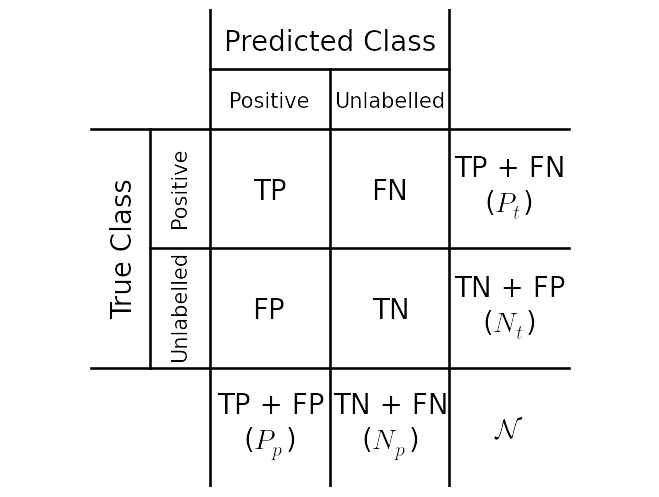
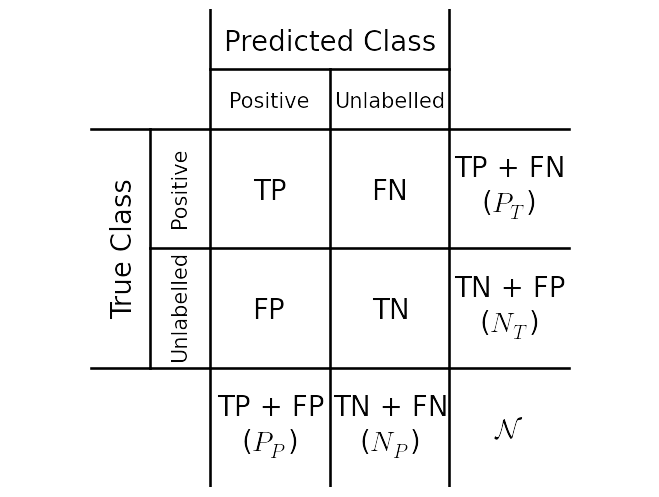
Source code cleaning

diff --git a/src/examples/ConfusionMatrix.py b/src/examples/ConfusionMatrix.py
@@ -1,6 +1,5 @@
 import matplotlib.gridspec as gridspec
 import matplotlib.pyplot as plt
-import matplotlib.patches as patches
 import numpy as np
 import sys
 
@@ -59,8 +58,8 @@ def main(figureSaveLocation):
     addtext.graphGeneration([3, 5], [5, 5], ['TP', 'FN'], currentFigure=currentFigure, sizes=[20, 20])
     addtext.graphGeneration([3, 5], [3, 3], ['FP', 'TN'], currentFigure=currentFigure, sizes=[20, 20])
 
-    addtext.graphGeneration([3, 5], [axisMinValue + 1, axisMinValue + 1], ['TP + FP\n(' + r'$P_p$' + ')', 'TN + FN\n(' + r'$N_p$' + ')'], currentFigure=currentFigure, sizes=[20, 20])
-    addtext.graphGeneration([axisMaxValue - 1, axisMaxValue - 1], [5, 3], ['TP + FN\n(' + r'$P_t$' + ')', 'TN + FP\n(' + r'$N_t$' + ')'], currentFigure=currentFigure, sizes=[20, 20])
+    addtext.graphGeneration([3, 5], [axisMinValue + 1, axisMinValue + 1], ['TP + FP\n(' + r'$P_P$' + ')', 'TN + FN\n(' + r'$N_P$' + ')'], currentFigure=currentFigure, sizes=[20, 20])
+    addtext.graphGeneration([axisMaxValue - 1, axisMaxValue - 1], [5, 3], ['TP + FN\n(' + r'$P_T$' + ')', 'TN + FP\n(' + r'$N_T$' + ')'], currentFigure=currentFigure, sizes=[20, 20])
     addtext.graphGeneration([axisMaxValue - 1], [axisMinValue + 1], [r'$\mathcal{N}$'], currentFigure=currentFigure, sizes=[20])
 
     # Finalise the figure.

diff --git a/src/examples/DecisionTreePartitions.py b/src/examples/DecisionTreePartitions.py
@@ -28,7 +28,7 @@ def main(figureSaveLocation):
     splitValues = splitValues + ([None] * (len(splitValues) + 1))  # Pad out the splitValues with empty values for the leaves.
     splitVariables = splitVariables + ([None] * (len(splitValues) + 1))  # Pad out the splitVariables with empty values for the leaves.
 
-    # Define the axis size;
+    # Define the axes sizes.
     axisMinValue = 0.0
     axisMaxValue = 10.0
 
